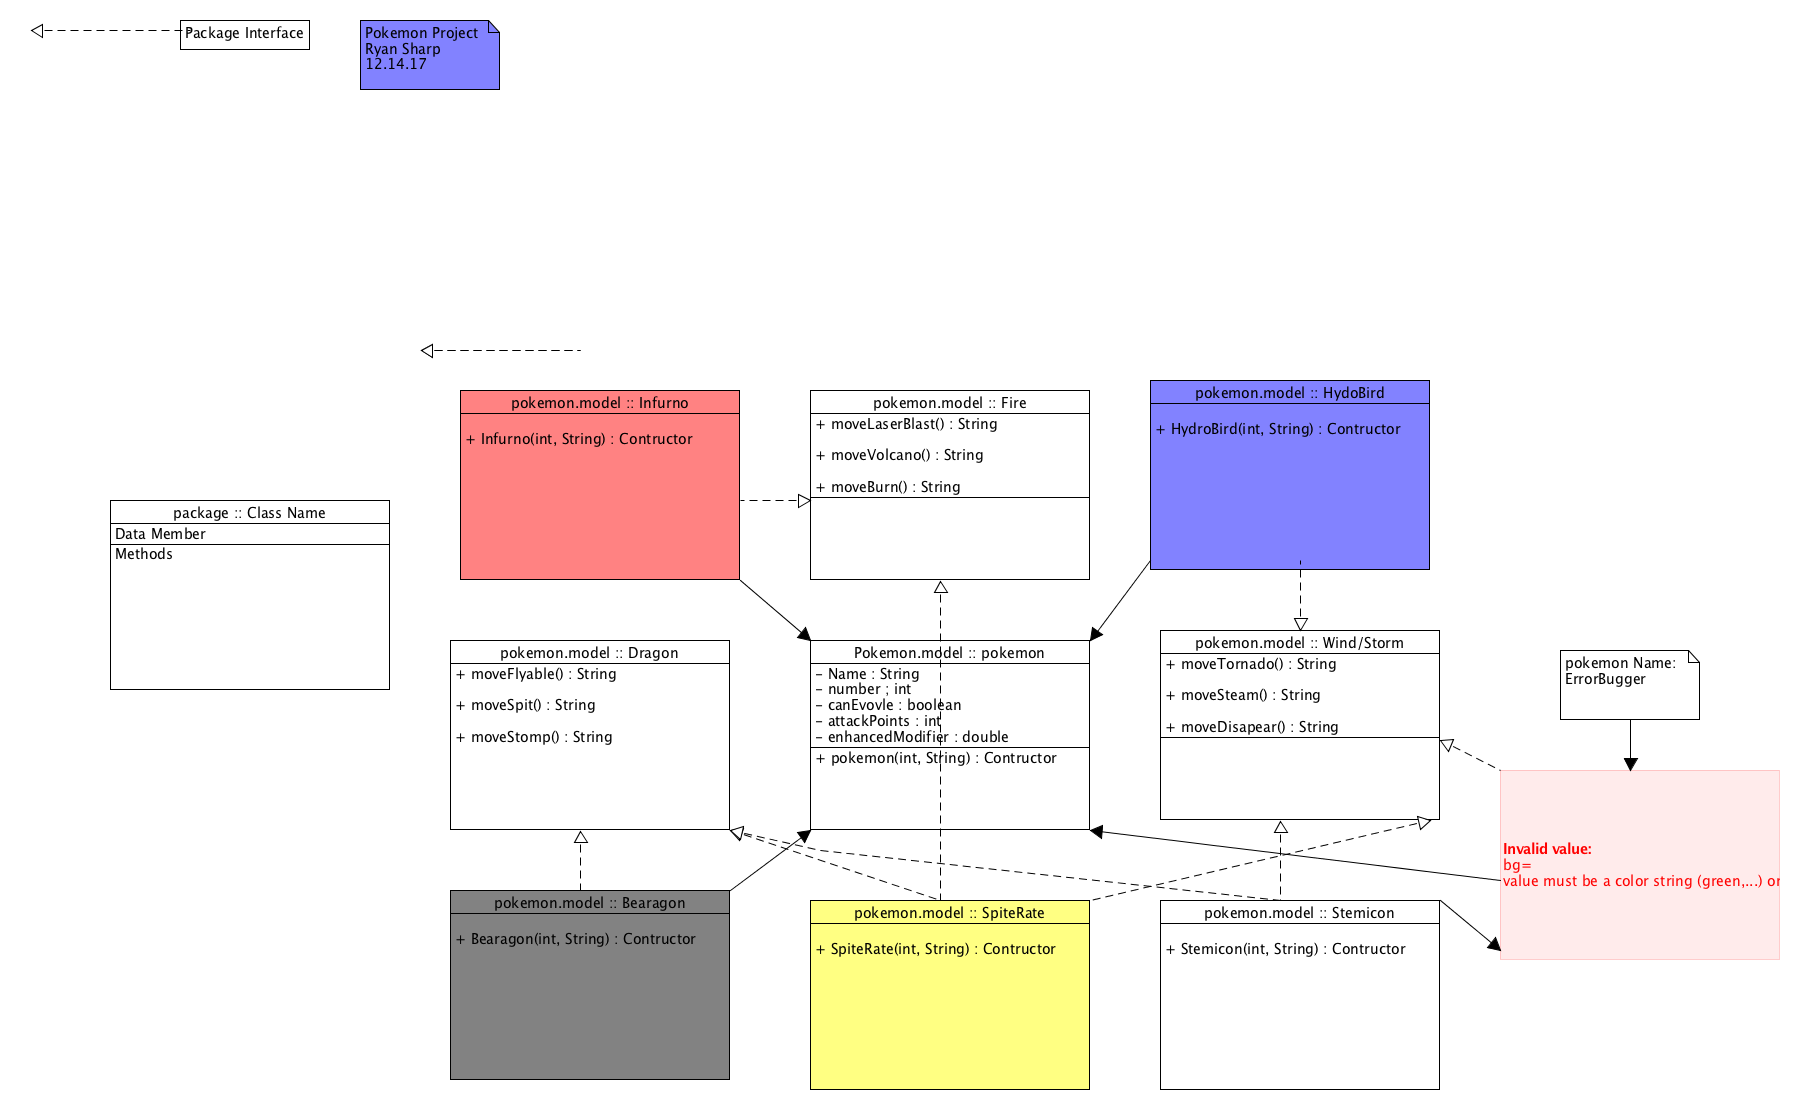
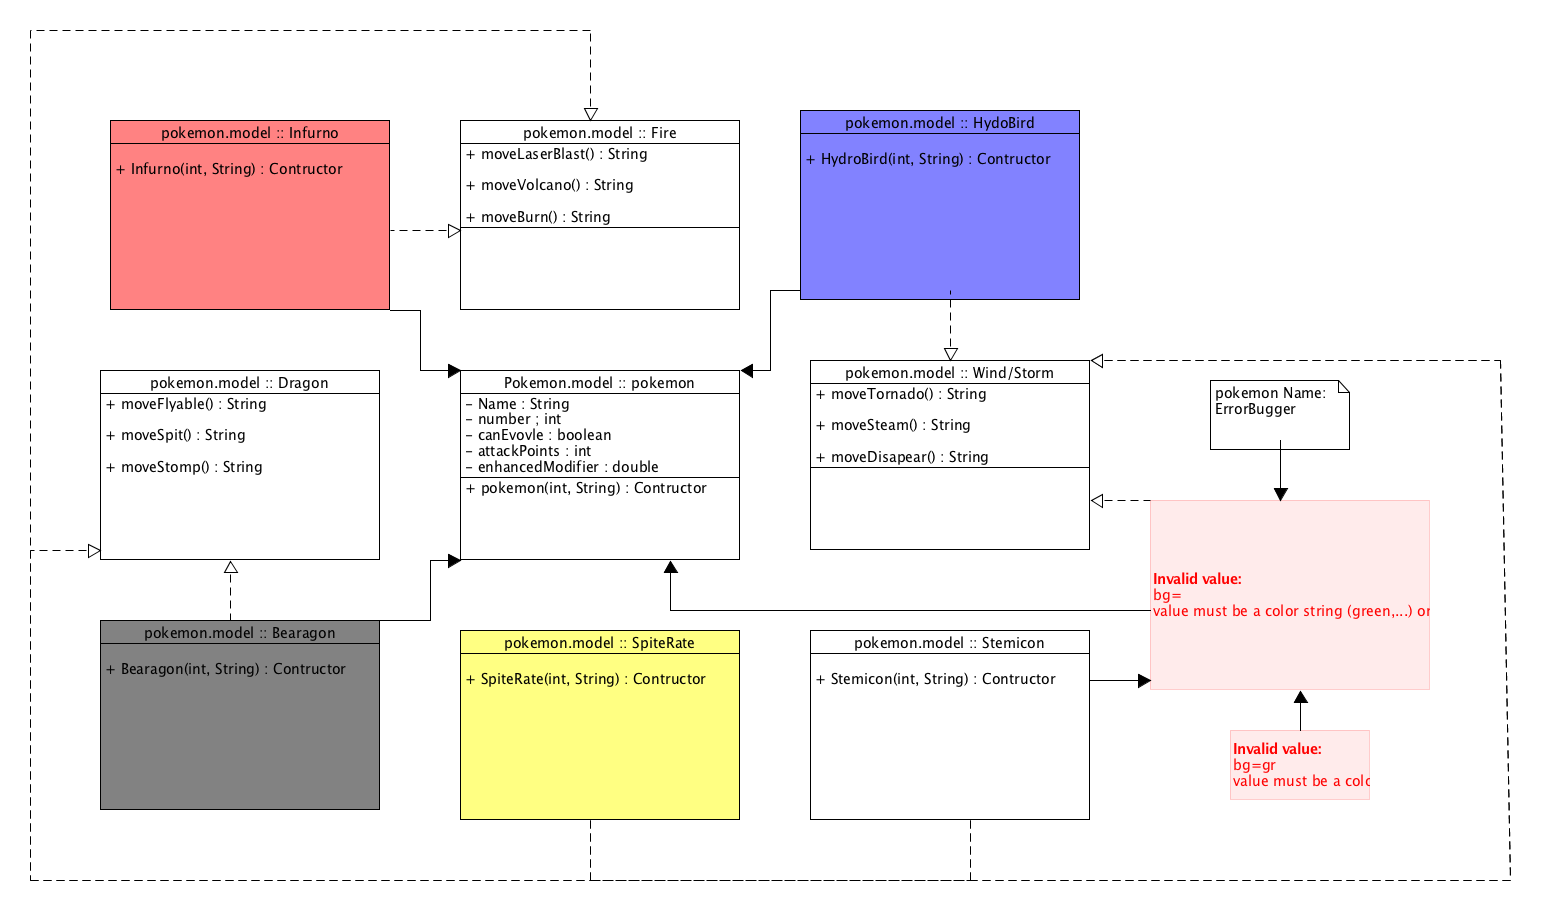
SAving better drawing and workig on bearagon..

diff --git a/src/model/Bearagon.java b/src/model/Bearagon.java
@@ -2,5 +2,8 @@ package model;
 
 public class Bearagon
 {
-
+	public Bearagon(int number, String name)
+	{
+		super(number, name);
+	}
 }
